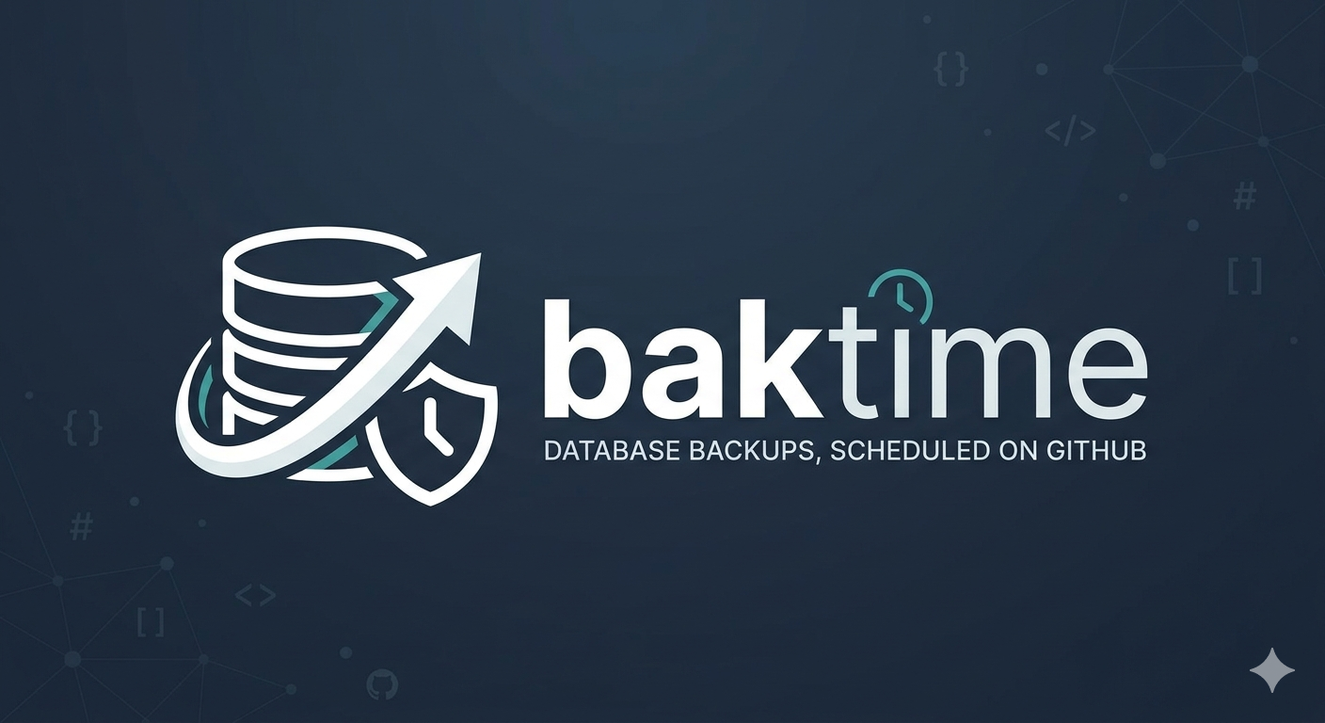
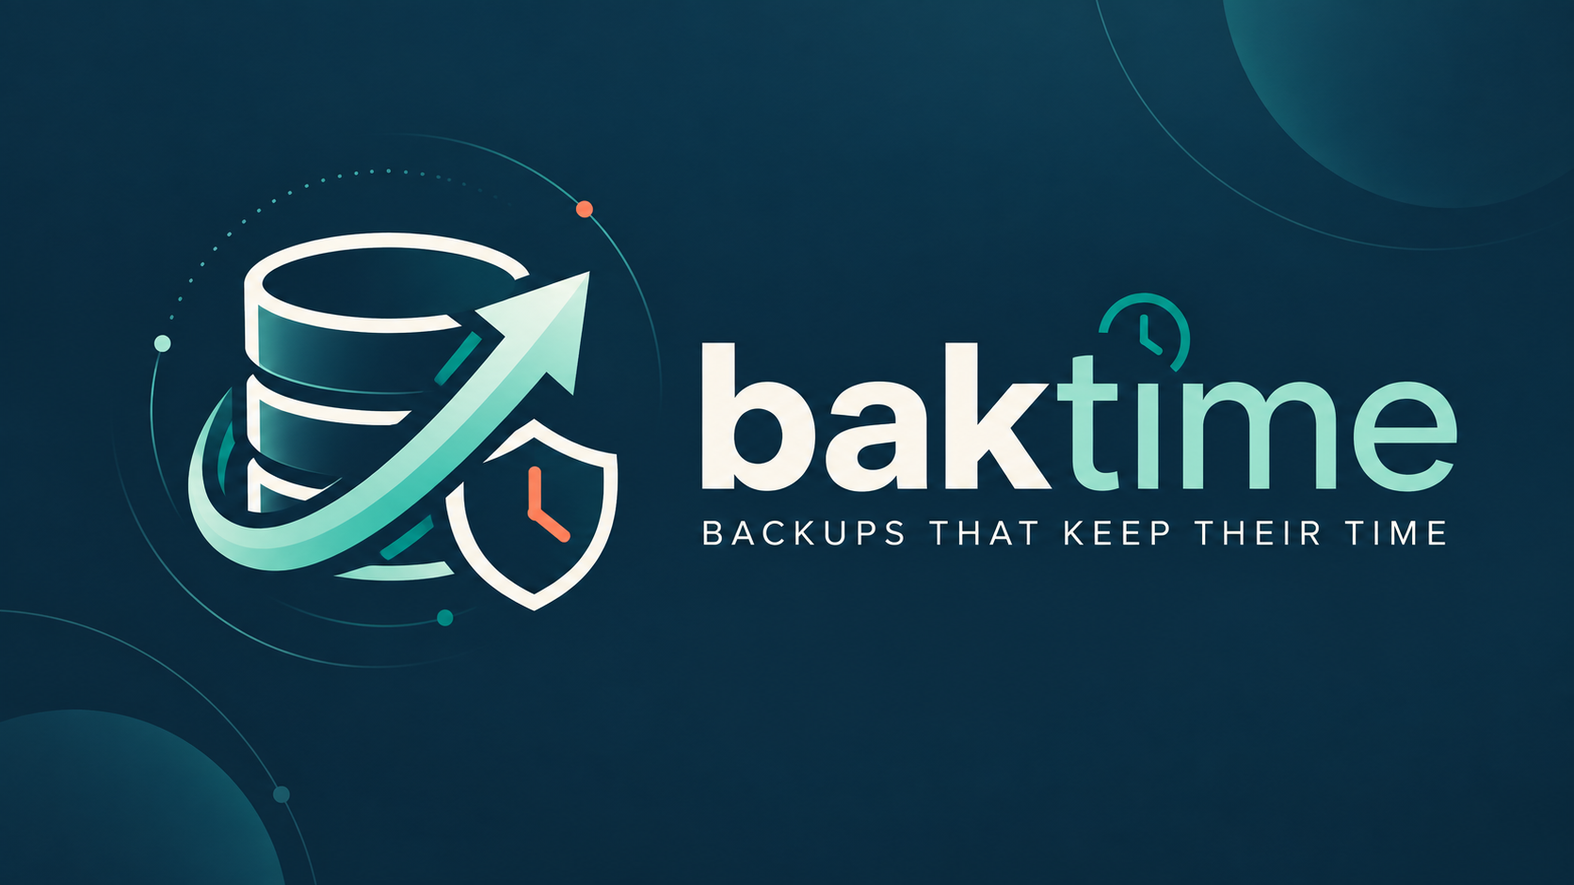
feat: add baktime project homepage and refreshed branding

diff --git a/website/index.html b/website/index.html
@@ -1,0 +1,188 @@
+<!doctype html>
+<html lang="en">
+  <head>
+    <meta charset="utf-8" />
+    <meta name="viewport" content="width=device-width, initial-scale=1" />
+    <meta name="theme-color" content="#f5f6f1" />
+    <meta name="description" content="baktime is an open source GitHub template for scheduled, encrypted backups of databases and files, powered by restic." />
+    <meta property="og:type" content="website" />
+    <meta property="og:title" content="baktime — backups that keep their time" />
+    <meta property="og:description" content="Scheduled, encrypted backups for databases and files. Run by GitHub Actions, stored with restic, and easy to restore." />
+    <title>baktime — backups that keep their time</title>
+    <link rel="icon" type="image/svg+xml" href="./favicon.svg" />
+    <link rel="preconnect" href="https://fonts.googleapis.com" />
+    <link rel="preconnect" href="https://fonts.gstatic.com" crossorigin />
+    <link href="https://fonts.googleapis.com/css2?family=DM+Mono:wght@400;500&family=DM+Sans:wght@400;500;600;700&family=Newsreader:opsz,wght@6..72,400;6..72,500;6..72,600&display=swap" rel="stylesheet" />
+    <style>
+      :root { color-scheme: light; --ink:#172b38; --muted:#64737a; --navy:#102d3c; --navy-deep:#0b202c; --teal:#168b83; --mint:#9bd5c1; --coral:#ef8354; --paper:#f5f6f1; --line:#dfe5df; --mono:"DM Mono",monospace; --serif:"Newsreader",Georgia,serif; --sans:"DM Sans",sans-serif; scroll-behavior:smooth; scroll-padding-top:90px; }
+      * { box-sizing:border-box; }
+      body { margin:0; background:var(--paper); color:var(--ink); font-family:var(--sans); -webkit-font-smoothing:antialiased; }
+      a { color:inherit; }
+      a:focus-visible { outline:3px solid var(--coral); outline-offset:4px; }
+      .wrap { width:min(1160px,calc(100% - 64px)); margin-inline:auto; }
+      .header { height:86px; display:flex; align-items:center; justify-content:space-between; border-bottom:1px solid var(--line); }
+      .brand { display:flex; align-items:center; gap:11px; text-decoration:none; }
+      .brand-mark { width:40px; height:40px; color:var(--teal); }
+      .brand-name { color:var(--navy); font-size:22px; font-weight:700; letter-spacing:-.065em; }
+      .brand-name span { color:var(--coral); }
+      .brand-name small { display:block; margin-top:3px; color:#87918b; font-family:var(--mono); font-size:8px; font-weight:400; letter-spacing:.12em; }
+      nav { display:flex; align-items:center; gap:31px; color:#50636a; font-size:13px; font-weight:600; }
+      nav a { text-decoration:none; } nav a:hover { color:var(--teal); }
+      .nav-button { padding:11px 15px; border:1px solid #bdcbc6; border-radius:3px; color:var(--navy); }
+      .nav-button span { margin-left:10px; color:var(--coral); }
+      .hero { min-height:660px; display:grid; grid-template-columns:1.04fr .96fr; gap:25px; align-items:center; padding-block:64px 74px; }
+      .eyebrow { margin:0 0 18px; color:var(--teal); font-family:var(--mono); font-size:10px; font-weight:500; letter-spacing:.13em; text-transform:uppercase; }
+      .eyebrow i { display:inline-block; width:7px; height:7px; margin-right:8px; border-radius:50%; background:var(--coral); }
+      h1,h2,h3,p { margin-top:0; }
+      h1 { max-width:620px; margin-bottom:22px; font-family:var(--serif); font-size:clamp(52px,6.2vw,78px); font-weight:400; letter-spacing:-.065em; line-height:.98; }
+      h1 span { color:var(--teal); font-style:italic; }
+      .lede { max-width:540px; margin-bottom:29px; color:var(--muted); font-size:17px; line-height:1.75; }
+      .lede strong { color:var(--ink); font-weight:700; }
+      .actions { display:flex; align-items:center; gap:25px; }
+      .button { min-height:48px; display:inline-flex; align-items:center; justify-content:center; gap:19px; padding:0 19px; border-radius:3px; font-size:13px; font-weight:700; text-decoration:none; transition:transform .18s,background .18s; }
+      .button:hover { transform:translateY(-2px); }
+      .primary { background:var(--teal); color:white; box-shadow:0 8px 20px #168b8326; }
+      .primary:hover { background:#116e69; }
+      .primary span { color:#ffb697; font-size:17px; }
+      .text-link { color:#50636a; font-size:12px; font-weight:700; text-decoration:none; }
+      .text-link span { color:var(--coral); }
+      .proof { display:flex; flex-wrap:wrap; gap:12px 19px; margin-top:29px; color:#6b7b7d; font-size:10px; font-weight:600; }
+      .proof b { margin-right:5px; color:var(--teal); }
+      .hero-art { position:relative; min-height:485px; display:grid; place-items:center; }
+      .ring { position:absolute; width:440px; height:440px; border:1px solid #168b8324; border-radius:50%; }
+      .ring::after { position:absolute; inset:34px; border:1px dashed #ef83544a; border-radius:50%; content:""; }
+      .console { position:relative; z-index:1; width:min(420px,95%); overflow:hidden; background:#fffefa; border:1px solid #d9e0da; box-shadow:0 24px 60px #112c3b20; transform:rotate(1.5deg); }
+      .console-top { height:46px; display:flex; align-items:center; gap:6px; padding:0 17px; background:#edf2ed; border-bottom:1px solid #dfe6df; }
+      .console-top i { width:7px; height:7px; border-radius:50%; background:#b9c8c0; }
+      .console-title { margin-left:9px; color:#75847e; font-family:var(--mono); font-size:9px; letter-spacing:.03em; }
+      .console-body { padding:23px 24px 20px; }
+      .console-label { display:flex; align-items:center; justify-content:space-between; color:#74837f; font-family:var(--mono); font-size:8px; letter-spacing:.1em; }
+      .live { color:var(--teal); } .live::before { display:inline-block; width:6px; height:6px; margin-right:6px; border-radius:50%; background:#4cab7a; content:""; }
+      .console h2 { margin:13px 0 21px; font-family:var(--serif); font-size:28px; font-weight:500; letter-spacing:-.04em; }
+      .job { display:grid; grid-template-columns:34px 1fr auto; align-items:center; gap:10px; min-height:69px; border-top:1px solid #e8ece6; }
+      .job-icon { width:31px; height:31px; display:grid; place-items:center; border:1px solid #d8e5dc; border-radius:50%; color:var(--teal); font-size:14px; }
+      .job-copy strong,.job-copy small { display:block; }
+      .job-copy strong { color:#263c46; font-size:11px; }
+      .job-copy small { margin-top:4px; color:#85928d; font-family:var(--mono); font-size:8px; }
+      .status-pill { padding:5px 7px; border-radius:99px; background:#e7f3eb; color:#408365; font-family:var(--mono); font-size:7px; letter-spacing:.06em; text-transform:uppercase; }
+      .job:nth-of-type(3) .status-pill { background:#fff0e7; color:#ba6948; }
+      .console-foot { margin:0 -24px -20px; padding:13px 24px; background:#f4f5ef; color:#718079; font-family:var(--mono); font-size:8px; }
+      .console-foot b { color:var(--teal); font-weight:500; }
+      .art-note { position:absolute; top:64px; right:0; width:95px; height:95px; display:grid; place-items:center; border-radius:50%; background:var(--coral); color:#fffaf2; font-family:var(--mono); font-size:8px; line-height:1.55; letter-spacing:.08em; text-align:center; transform:rotate(8deg); box-shadow:0 9px 20px #ef835438; }
+      .art-caption { position:absolute; right:13px; bottom:5px; color:#74817c; font-family:var(--mono); font-size:8px; letter-spacing:.12em; }
+      .strip { background:#e9eee8; border-block:1px solid var(--line); }
+      .strip-inner { min-height:76px; display:flex; align-items:center; justify-content:space-between; gap:20px; color:#5f706d; font-size:11px; font-weight:600; }
+      .strip-inner strong { color:var(--navy); font-family:var(--mono); font-size:9px; letter-spacing:.1em; }
+      .strip-inner span { white-space:nowrap; } .strip-inner i { margin-right:6px; color:var(--coral); font-style:normal; }
+      .section { padding-block:105px; }
+      .section-head { display:flex; align-items:flex-end; justify-content:space-between; gap:40px; }
+      .section-head .eyebrow { margin-bottom:14px; }
+      .section-head h2,.how-head h2 { margin:0; font-family:var(--serif); font-size:clamp(37px,4.3vw,53px); font-weight:400; letter-spacing:-.055em; line-height:1.02; }
+      .section-head h2 em,.how-head h2 em { color:var(--teal); }
+      .section-head > p { max-width:390px; margin:0 0 4px; color:var(--muted); font-size:14px; line-height:1.8; }
+      .features { display:grid; grid-template-columns:repeat(4,1fr); margin-top:48px; border-block:1px solid var(--line); }
+      .feature { min-height:235px; padding:23px 21px 25px 0; }
+      .feature + .feature { padding-left:21px; border-left:1px solid var(--line); }
+      .feature-no { color:#9aa8a1; font-family:var(--mono); font-size:9px; }
+      .feature-icon { width:37px; height:37px; display:grid; place-items:center; margin-top:18px; border:1px solid #d4e2d8; border-radius:50%; color:var(--teal); font-size:16px; }
+      .feature h3 { margin:15px 0 8px; font-family:var(--serif); font-size:20px; font-weight:500; letter-spacing:-.02em; }
+      .feature p { max-width:235px; margin:0; color:var(--muted); font-size:12px; line-height:1.75; }
+      .how { padding-block:96px 92px; background:var(--navy); color:#f3f4ed; }
+      .how-head { display:flex; justify-content:space-between; align-items:flex-end; gap:40px; }
+      .how .eyebrow { color:var(--mint); }
+      .how-head h2 em { color:#9ad3bf; }
+      .how-head > p { max-width:390px; margin:0 0 3px; color:#bdcbc6; font-size:14px; line-height:1.8; }
+      .flow { display:grid; grid-template-columns:repeat(4,1fr); gap:24px; margin-top:51px; }
+      .flow-step { position:relative; min-height:213px; padding-right:17px; }
+      .flow-step:not(:last-child)::after { position:absolute; top:18px; left:48px; right:0; height:1px; background:#ffffff2c; content:""; }
+      .flow-no { position:relative; z-index:1; width:38px; height:38px; display:grid; place-items:center; border:1px solid #87baaa80; border-radius:50%; background:var(--navy); color:#a4d8c3; font-family:var(--mono); font-size:10px; }
+      .flow-step h3 { margin:21px 0 9px; color:#fffdf4; font-family:var(--serif); font-size:22px; font-weight:500; }
+      .flow-step p { margin:0; color:#bacbc4; font-size:12px; line-height:1.8; }
+      .flow-step code { color:#f5b18e; font-family:var(--mono); font-size:10px; }
+      .how-bottom { display:flex; justify-content:space-between; align-items:center; gap:30px; margin-top:38px; padding-top:22px; border-top:1px solid #ffffff26; }
+      .how-bottom p { max-width:610px; margin:0; color:#bdcbc6; font-size:11px; line-height:1.75; }
+      .light-button { flex:none; background:#f1f2e9; color:var(--navy); }
+      .light-button span { color:var(--coral); }
+      .start { padding-block:98px 91px; }
+      .start-grid { display:grid; grid-template-columns:.8fr 1.2fr; gap:80px; }
+      .start h2 { margin:0; font-family:var(--serif); font-size:clamp(37px,4vw,48px); font-weight:400; letter-spacing:-.05em; line-height:1.05; }
+      .start h2 em { color:var(--teal); }
+      .start-intro { margin-top:19px; color:var(--muted); font-size:13px; line-height:1.8; }
+      .steps { margin:0; padding:0; list-style:none; }
+      .steps li { display:grid; grid-template-columns:44px 1fr; gap:14px; padding:16px 0; border-top:1px solid var(--line); }
+      .steps li:last-child { border-bottom:1px solid var(--line); }
+      .steps b { color:var(--coral); font-family:var(--mono); font-size:12px; font-weight:400; }
+      .steps strong { display:block; margin-bottom:5px; color:var(--navy); font-family:var(--serif); font-size:19px; font-weight:500; }
+      .steps p { margin:0; color:var(--muted); font-size:12px; line-height:1.75; }
+      .steps a { color:var(--teal); font-weight:700; text-underline-offset:3px; }
+      .why { display:grid; grid-template-columns:90px 1fr; gap:24px; padding-block:55px 75px; border-top:1px solid var(--line); }
+      .quote-mark { color:var(--coral); font-family:var(--serif); font-size:96px; line-height:.8; }
+      .why-copy { max-width:820px; }
+      .why h2 { max-width:720px; margin:0 0 15px; font-family:var(--serif); font-size:clamp(31px,3.8vw,44px); font-weight:400; letter-spacing:-.05em; line-height:1.08; }
+      .why-copy > p:not(.eyebrow) { max-width:740px; margin:0 0 16px; color:var(--muted); font-size:14px; line-height:1.8; }
+      .suppi { color:var(--teal); font-size:13px; font-weight:700; text-underline-offset:4px; text-decoration-color:var(--coral); }
+      .cta { display:flex; align-items:center; gap:20px; padding-block:38px; border-top:1px solid var(--line); }
+      .cta-mark { width:48px; height:48px; color:var(--teal); }
+      .cta .eyebrow { margin-bottom:5px; font-size:8px; }
+      .cta h2 { margin:0; font-family:var(--serif); font-size:25px; font-weight:500; }
+      .cta .button { margin-left:auto; }
+      footer { background:#e9eee8; border-top:1px solid var(--line); }
+      .footer-inner { min-height:80px; display:flex; align-items:center; gap:17px; }
+      .footer-brand { color:var(--navy); font-size:16px; font-weight:700; letter-spacing:-.06em; text-decoration:none; }
+      .footer-brand span { color:var(--coral); }
+      .footer-inner p { margin:0; color:#788781; font-size:10px; }
+      .footer-inner > a:last-child { margin-left:auto; color:var(--teal); font-size:11px; font-weight:700; text-decoration:none; }
+      @media(max-width:900px) { .wrap{width:min(100% - 44px,720px)} .hero{grid-template-columns:1fr .85fr;gap:0}.hero-art{transform:scale(.82);transform-origin:center right;margin-right:-45px}.proof{gap:9px 13px}.features{grid-template-columns:repeat(2,1fr)}.feature:nth-child(3){padding-left:0;border-left:0;border-top:1px solid var(--line)}.feature:nth-child(4){border-top:1px solid var(--line)}.feature{min-height:220px}.start-grid{gap:40px} }
+      @media(max-width:640px) { .wrap{width:calc(100% - 36px)}.header{height:74px}.brand-mark{width:35px;height:35px}.brand-name{font-size:19px}nav{gap:0}nav>a:not(.nav-button){display:none}.nav-button{padding:10px 11px;font-size:10px}.hero{display:flex;flex-direction:column;align-items:stretch;padding-block:49px 35px}.hero h1{font-size:clamp(49px,13vw,66px)}.lede{font-size:14px}.actions{align-items:flex-start;flex-direction:column;gap:15px}.proof{margin-top:22px;font-size:9px}.hero-art{min-height:390px;margin:9px -24px 0;transform:scale(.9);transform-origin:top center}.ring{width:380px;height:380px}.console{width:min(390px,90%)}.art-note{top:35px;right:3px;width:78px;height:78px;font-size:7px}.art-caption{right:14px;bottom:9px;font-size:7px}.strip-inner{min-height:90px;justify-content:flex-start;flex-wrap:wrap;gap:9px 17px;padding-block:14px}.strip-inner strong{width:100%}.strip-inner span{font-size:9px}.section{padding-block:73px}.section-head,.how-head{align-items:flex-start;flex-direction:column;gap:16px}.section-head h2,.how-head h2{font-size:40px}.section-head>p,.how-head>p{font-size:12px}.features{grid-template-columns:1fr;margin-top:31px}.feature,.feature+.feature{min-height:0;padding:17px 0 20px;border-left:0;border-top:1px solid var(--line)}.feature:first-child{border-top:0}.feature-icon{margin-top:13px}.feature h3{margin-top:12px}.feature p{max-width:none;font-size:11px}.how{padding-block:72px 65px}.flow{grid-template-columns:1fr 1fr;gap:24px 18px;margin-top:34px}.flow-step{min-height:0;padding-right:4px}.flow-step:not(:last-child)::after{display:none}.flow-step h3{margin-top:14px;font-size:19px}.flow-step p{font-size:10px}.how-bottom{align-items:flex-start;flex-direction:column;gap:16px;margin-top:27px}.how-bottom p{font-size:10px}.start{padding-block:70px}.start-grid{grid-template-columns:1fr;gap:28px}.start h2{font-size:40px}.start-intro{font-size:11px}.steps li{grid-template-columns:35px 1fr;gap:10px}.steps strong{font-size:18px}.steps p{font-size:11px}.why{grid-template-columns:34px 1fr;gap:10px;padding-block:40px 55px}.quote-mark{font-size:56px}.why h2{font-size:30px}.why-copy>p:not(.eyebrow){font-size:11px}.cta{flex-wrap:wrap;gap:13px;padding-block:28px}.cta-mark{width:39px;height:39px}.cta h2{font-size:20px}.cta .button{width:100%;margin:8px 0 0}.footer-inner{min-height:74px;flex-wrap:wrap;gap:7px 11px;padding-block:13px}.footer-brand{font-size:14px}.footer-inner p{font-size:9px}.footer-inner>a:last-child{width:100%;margin-left:0;font-size:10px} }
+      @media(prefers-reduced-motion:reduce){html{scroll-behavior:auto}*,*::before,*::after{transition:none!important}}
+    </style>
+  </head>
+  <body>
+    <header class="header wrap">
+      <a class="brand" href="#top" aria-label="baktime home">
+        <svg class="brand-mark" viewBox="0 0 48 48" fill="none" aria-hidden="true"><path d="M8 14h25v24H8zM14 9h25v24" stroke="currentColor" stroke-width="2.2" stroke-linejoin="round"/><path d="M13 21h14M13 27h10" stroke="currentColor" stroke-width="2.2" stroke-linecap="round"/><circle cx="33" cy="32" r="9" fill="var(--paper)" stroke="currentColor" stroke-width="2.2"/><path d="M33 27v5l3 2" stroke="currentColor" stroke-width="2.2" stroke-linecap="round"/></svg>
+        <span class="brand-name">baktime<span>.</span><small>BACKUPS THAT KEEP THEIR TIME</small></span>
+      </a>
+      <nav aria-label="Main navigation"><a href="#how">How it works</a><a href="#features">What you get</a><a class="nav-button" href="https://github.com/baktime/baktime" target="_blank" rel="noreferrer">Explore the project <span>↗</span></a></nav>
+    </header>
+    <main id="top">
+      <section class="hero wrap">
+        <div>
+          <p class="eyebrow"><i></i> OPEN SOURCE BACKUP AUTOMATION</p>
+          <h1>Backups that<br /><span>keep their time.</span></h1>
+          <p class="lede"><strong>baktime</strong> is a GitHub template for scheduled, encrypted backups of databases and files. It brings together GitHub Actions, restic and a tiny Cloudflare Worker, so your data is protected without another backup server to run.</p>
+          <div class="actions"><a class="button primary" href="https://github.com/baktime/baktime/generate" target="_blank" rel="noreferrer">Create your own copy <span>↗</span></a><a class="text-link" href="#how">See how it works <span>↓</span></a></div>
+          <div class="proof"><span><b>✓</b> Client-side encryption</span><span><b>✓</b> Your storage, your keys</span><span><b>✓</b> Restore when needed</span></div>
+        </div>
+        <div class="hero-art" aria-label="Illustration of a scheduled backup dashboard">
+          <div class="ring"></div>
+          <div class="console"><div class="console-top"><i></i><i></i><i></i><span class="console-title">baktime / backup overview</span></div><div class="console-body"><div class="console-label"><span>YOUR BACKUP SCHEDULE</span><span class="live">ON TRACK</span></div><h2>Quietly keeping<br />good copies.</h2><div class="job"><span class="job-icon">▤</span><span class="job-copy"><strong>production-db</strong><small>postgres · every 6 hours</small></span><span class="status-pill">healthy</span></div><div class="job"><span class="job-icon">⌘</span><span class="job-copy"><strong>app-files</strong><small>files · daily at 02:00 UTC</small></span><span class="status-pill">healthy</span></div><div class="job"><span class="job-icon">↻</span><span class="job-copy"><strong>weekly-prune</strong><small>retention · 14 daily / 8 weekly</small></span><span class="status-pill">scheduled</span></div><div class="console-foot"><b>●</b> encrypted snapshot saved &nbsp;·&nbsp; last run 8 minutes ago</div></div></div>
+          <div class="art-note">SECURE<br />BY DESIGN<br />SINCE THE FIRST<br />SNAPSHOT</div><div class="art-caption">A SAMPLE BACKUP OVERVIEW</div>
+        </div>
+      </section>
+      <section class="strip"><div class="strip-inner wrap"><strong>SMALL SETUP. SOLID BACKUPS.</strong><span><i>↗</i> GitHub Actions runs the jobs</span><span><i>⌁</i> restic encrypts and deduplicates</span><span><i>◎</i> Use storage you control</span></div></section>
+      <section class="section wrap" id="features">
+        <div class="section-head"><div><p class="eyebrow">A BACKUP ROUTINE, READY TO USE</p><h2>Protect the data<br /><em>you depend on.</em></h2></div><p>Bring your own repository and schedule. baktime handles the repeatable work: connecting, backing up, keeping history, and making restores easier.</p></div>
+        <div class="features">
+          <article class="feature"><span class="feature-no">01 / DATABASES</span><span class="feature-icon" aria-hidden="true">▤</span><h3>MySQL &amp; PostgreSQL</h3><p>Stream database dumps straight into restic. Connect directly or securely through an SSH jump host.</p></article>
+          <article class="feature"><span class="feature-no">02 / FILES</span><span class="feature-icon" aria-hidden="true">⌘</span><h3>Files over SSH</h3><p>Back up remote Linux hosts, including consistent copies of live SQLite databases, without root access.</p></article>
+          <article class="feature"><span class="feature-no">03 / HISTORY</span><span class="feature-icon" aria-hidden="true">◷</span><h3>Schedules &amp; retention</h3><p>Set a cron schedule per target. Keep the daily, weekly and monthly snapshots that make sense to you.</p></article>
+          <article class="feature"><span class="feature-no">04 / RESTORES</span><span class="feature-icon" aria-hidden="true">↶</span><h3>Know what happened</h3><p>Track health and run history, get Discord notifications, and restore a snapshot through a manual workflow.</p></article>
+        </div>
+      </section>
+      <section class="how" id="how"><div class="wrap"><div class="how-head"><div><p class="eyebrow">A FEW PIECES, WORKING TOGETHER</p><h2>From a schedule<br /><em>to a safe copy.</em></h2></div><p>Targets and credentials stay in GitHub secrets. Only names and schedules are shared with the dispatcher.</p></div>
+        <div class="flow">
+          <article class="flow-step"><span class="flow-no">01</span><h3>Describe a target</h3><p>Store each database or files target as a GitHub secret. Keep credentials out of the repository.</p></article>
+          <article class="flow-step"><span class="flow-no">02</span><h3>Set its schedule</h3><p>The lightweight Cloudflare Worker checks schedules and dispatches a job when a backup is due.</p></article>
+          <article class="flow-step"><span class="flow-no">03</span><h3>Save an encrypted copy</h3><p>GitHub Actions runs restic. Backups are encrypted on the client and sent to R2 or another supported store.</p></article>
+          <article class="flow-step"><span class="flow-no">04</span><h3>Keep &amp; restore</h3><p>Retention prunes old snapshots. Run records show what happened, and a manual workflow restores a copy.</p></article>
+        </div>
+        <div class="how-bottom"><p>File data travels directly from the host to storage. Database dumps stream from the dump tool into restic; they are not committed to Git.</p><a class="button light-button" href="https://github.com/baktime/baktime/blob/main/docs/architecture.md" target="_blank" rel="noreferrer">Read the architecture <span>↗</span></a></div>
+      </div></section>
+      <section class="start wrap" id="start"><div class="start-grid"><div><p class="eyebrow">GET STARTED</p><h2>Make the template<br /><em>your backup setup.</em></h2><p class="start-intro">No backup server to install. Start with a private copy of the repository, then follow the guide to connect your storage and add a first target.</p><a class="button primary" href="https://github.com/baktime/baktime/blob/main/docs/getting-started.md" target="_blank" rel="noreferrer">Follow the setup guide <span>↗</span></a></div><ol class="steps"><li><b>01</b><div><strong>Create a private repository</strong><p>Use baktime as a GitHub template so configuration, history and workflows live with your own backup setup.</p></div></li><li><b>02</b><div><strong>Connect storage and secrets</strong><p>Add your restic repository, encryption password, provider credentials and target configuration as GitHub secrets.</p></div></li><li><b>03</b><div><strong>Choose schedules and retention</strong><p>Set each target’s backup frequency and how many daily, weekly and monthly snapshots to keep.</p></div></li><li><b>04</b><div><strong>Run once, then verify</strong><p>Check the first run, review the recorded status, and practice restoring before you need it.</p></div></li></ol></div></section>
+      <section class="why wrap"><div class="quote-mark" aria-hidden="true">“</div><div class="why-copy"><p class="eyebrow">WHY BAKTIME EXISTS</p><h2>Backups should be routine, understandable, and yours to restore.</h2><p>I built baktime to make a reliable backup setup easier to operate without keeping a dedicated backup server alive. The project is open source; you choose the targets, schedules, storage provider, and retention policy.</p><a class="suppi" href="https://suppi.pl/mleczakm" target="_blank" rel="noreferrer">If baktime is useful, you can say thanks on Suppi <span aria-hidden="true">↗</span></a></div></section>
+      <section class="cta wrap"><svg class="cta-mark" viewBox="0 0 48 48" fill="none" aria-hidden="true"><path d="M8 14h25v24H8zM14 9h25v24" stroke="currentColor" stroke-width="2.2" stroke-linejoin="round"/><path d="M13 21h14M13 27h10" stroke="currentColor" stroke-width="2.2" stroke-linecap="round"/><circle cx="33" cy="32" r="9" fill="var(--paper)" stroke="currentColor" stroke-width="2.2"/><path d="M33 27v5l3 2" stroke="currentColor" stroke-width="2.2" stroke-linecap="round"/></svg><div><p class="eyebrow">OPEN SOURCE · BUILT AROUND RESTIC</p><h2>Give your backups a steady rhythm.</h2></div><a class="button primary" href="https://github.com/baktime/baktime/generate" target="_blank" rel="noreferrer">Use the template <span>↗</span></a></section>
+    </main>
+    <footer><div class="footer-inner wrap"><a class="footer-brand" href="#top">baktime<span>.</span></a><p>Open source backup automation for databases and files.</p><a href="https://suppi.pl/mleczakm" target="_blank" rel="noreferrer">Say thanks on Suppi ↗</a></div></footer>
+  </body>
+</html>

diff --git a/README.md b/README.md
@@ -1,6 +1,8 @@
-![baktime — database and file backups, scheduled and verified on GitHub](assets/baktime-banner.png)
+![baktime — backups that keep their time](assets/baktime-banner.png)
 
-> **Scheduled, encrypted, deduplicated backups of your servers and databases — run entirely by GitHub Actions, no backup server to maintain.**
+> **Scheduled, encrypted, deduplicated backups of your servers, databases and files — run by GitHub Actions, with no backup server to maintain.**
+
+Explore the [baktime project homepage](https://baktime.github.io/baktime/) for an overview of how it works and what you get. If the project is useful, [say thanks on Suppi](https://suppi.pl/mleczakm).
 
 baktime is a GitHub template repository. You create your own **private**
 copy of it, add each thing you want backed up as a GitHub secret, and from
